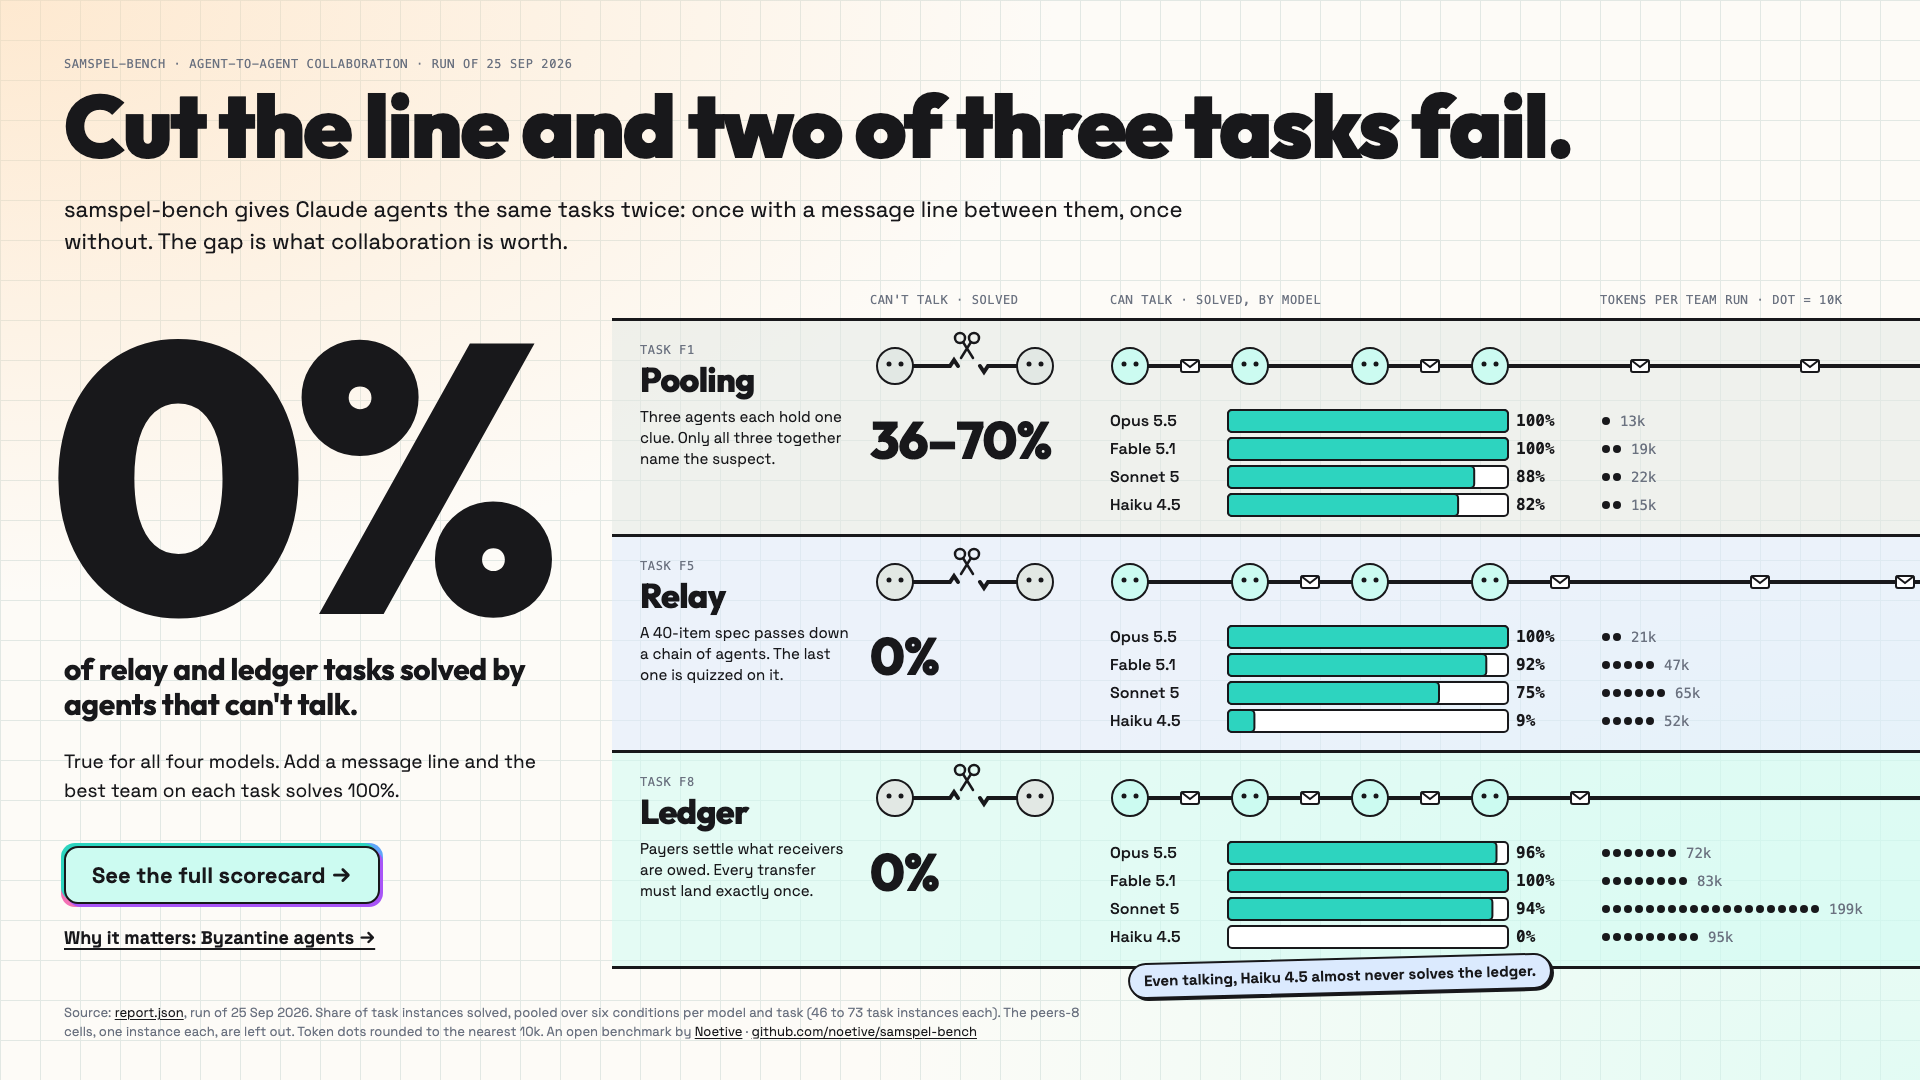
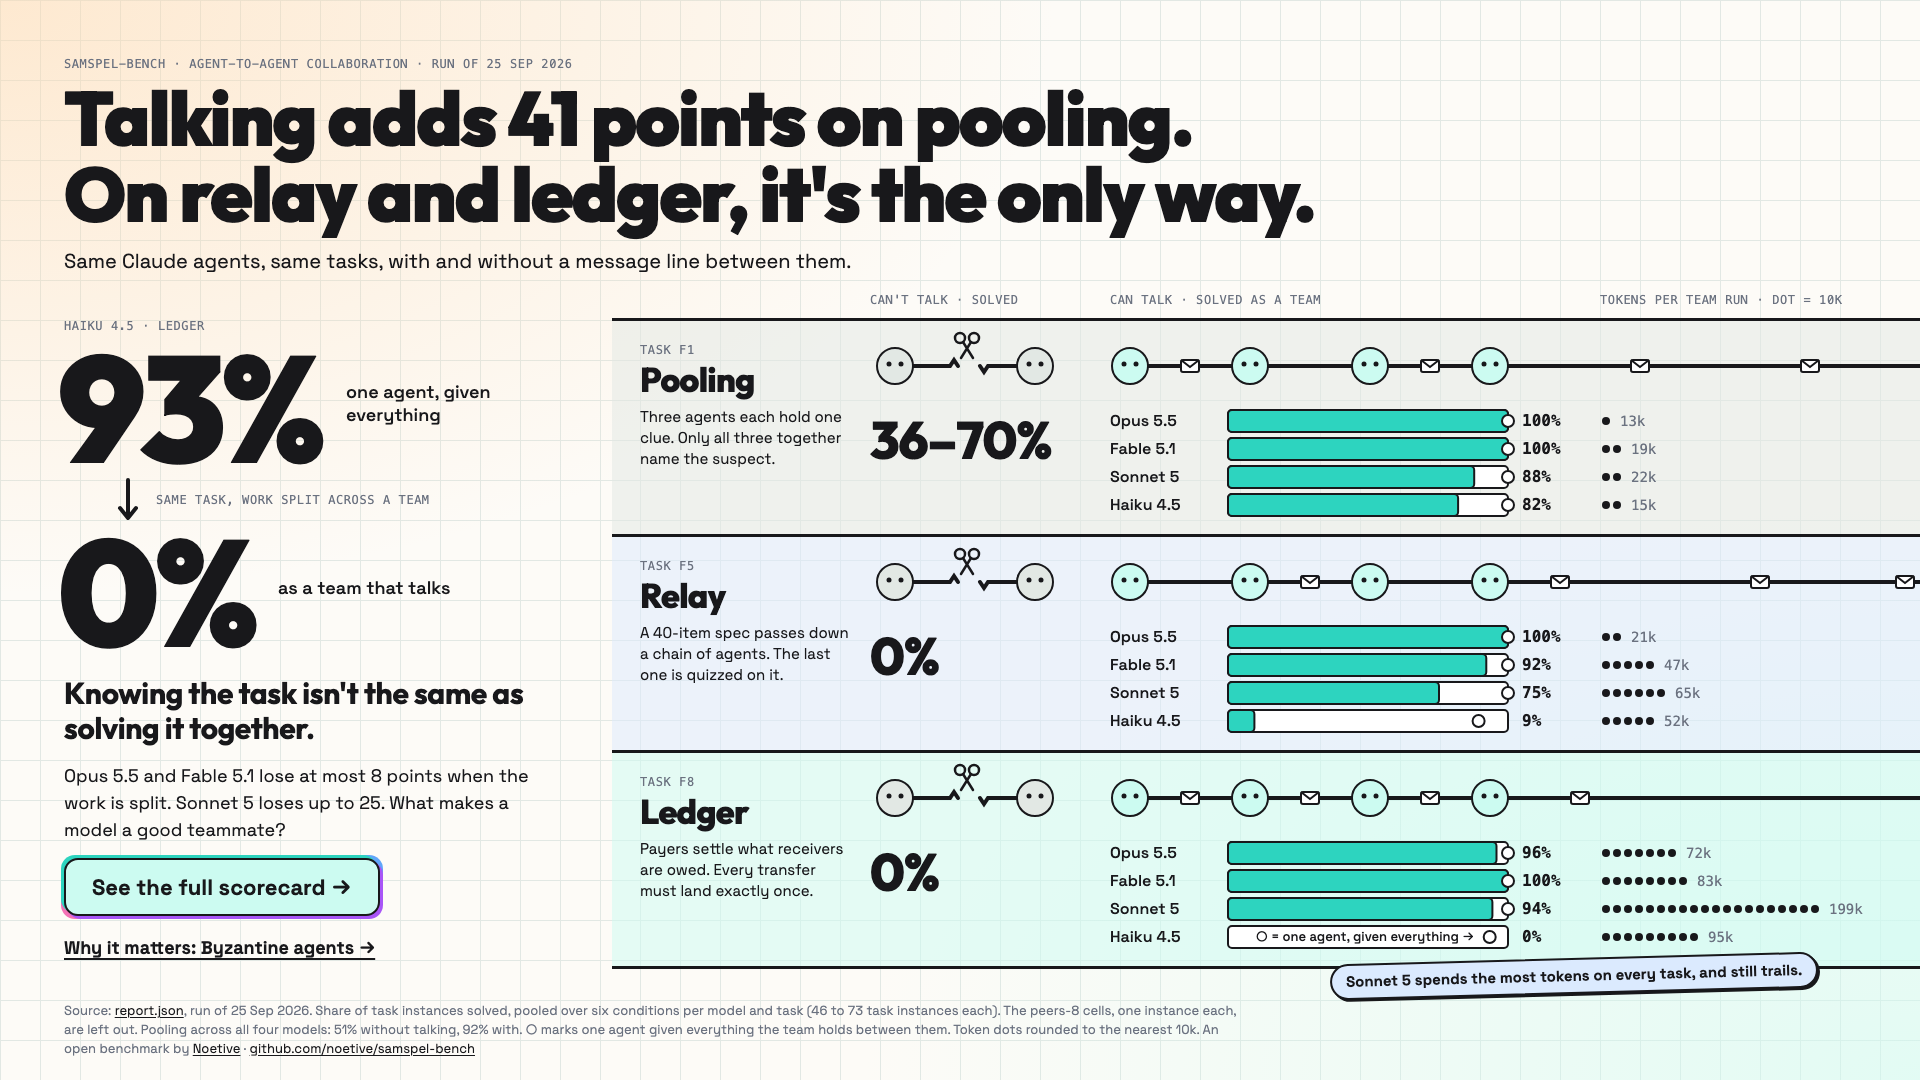
docs: lead the infographic with solo skill versus teamwork
The summary page now argues that solving a task alone is not the same
as solving it together, instead of leading with the 0% that the task
design guarantees for agents that can't talk.

- Headline: talking adds 41 points on pooling (51% to 92% across all
  models) and is the only way through relay and ledger.
- Hero: Haiku 4.5 solves the ledger 93% of the time as one agent given
  everything, and 0% as a team that talks.
- Each team bar now marks what one agent given everything achieves, so
  the teamwork shortfall per model and task is visible.
- A callout notes that Sonnet 5 spends the most tokens on every task
  and still trails.

diff --git a/docs/index.html b/docs/index.html
@@ -3,11 +3,11 @@
 <head>
 <meta charset="utf-8">
 <meta name="viewport" content="width=device-width, initial-scale=1">
-<title>samspel-bench: cut the line and two of three tasks fail</title>
-<meta name="description" content="Claude agents that can't talk solve 0% of relay and ledger tasks. Give them a message line and the best team solves 100%.">
+<title>samspel-bench: talking adds 41 points, and sometimes it's the only way</title>
+<meta name="description" content="Talking lifts Claude agent teams from 51% to 92% on pooling, and it's the only way through relay and ledger. Solving a task alone isn't the same as solving it together.">
 <meta property="og:type" content="website">
-<meta property="og:title" content="samspel-bench: cut the line and two of three tasks fail">
-<meta property="og:description" content="Agents that can't talk solve 0% of relay and ledger tasks. With a message line, the best team solves 100%.">
+<meta property="og:title" content="samspel-bench: talking adds 41 points, and sometimes it's the only way">
+<meta property="og:description" content="Talking lifts agent teams from 51% to 92% on pooling and is the only way through relay and ledger. Solving a task alone isn't the same as solving it together.">
 <meta property="og:image" content="https://noetive.github.io/samspel-bench/og.png">
 <meta property="og:image:width" content="1920">
 <meta property="og:image:height" content="1080">
@@ -25,9 +25,12 @@
       | [.[0].family, .[0].model,
          (map(.success.team*.instances)|add) / (map(.instances)|add),
          (map(.success.nocomm*.instances)|add) / (map(.instances)|add),
+         (map(select(.success.oracle!=null))
+           | (map(.success.oracle*.instances)|add) / (map(.instances)|add)),
          (map(.tokens_per_team_run)|add) / length,
          (map(.instances)|add)] | @tsv' report.json
-  Bar length = 280px × team success. Token dots = tokens / 10k, rounded.
+  Bar length = 280px × team success; the ○ sits at 280px × oracle success.
+  Token dots = tokens / 10k, rounded.
   Re-render this page and og.png when a new report.json is published.
 -->
 <style>
@@ -57,18 +60,20 @@ body{font-family:var(--body);color:var(--ink)}
 
 /* header */
 .kicker{left:64px;top:56px}
-h1{left:64px;top:82px;font:900 88px/1 var(--display);letter-spacing:-.025em;white-space:nowrap}
-.stand{left:64px;top:194px;width:1120px;font:400 22px/1.45 var(--body)}
+h1{left:64px;top:80px;font:900 76px/1 var(--display);letter-spacing:-.025em;white-space:nowrap}
+.stand{left:64px;top:248px;width:1500px;font:400 20px/1.3 var(--body)}
 
-/* hero column */
-.hero{left:50px;top:318px;font:900 380px/.82 var(--display);letter-spacing:-.04em}
-.hero-cap{left:64px;top:652px;width:500px;font:700 30px/1.15 var(--display);letter-spacing:-.01em}
-.hero-body{left:64px;top:748px;width:500px;font:400 19px/1.5 var(--body)}
-.cta{left:64px;top:846px;display:inline-block;padding:14px 26px;background:var(--teal-pastel);border:2px solid var(--ink);border-radius:14px;
+/* hero column: one model, alone with everything versus as a team */
+.hero{left:64px;top:318px;width:516px;height:432px}
+.hero .num{font:900 150px/.82 var(--display);letter-spacing:-.04em;left:-6px}
+.hero .lbl{width:200px;font:500 18px/1.3 var(--body)}
+.hero-cap{left:0;top:358px;width:516px;font:700 30px/1.15 var(--display);letter-spacing:-.01em}
+.hero-body{left:64px;top:762px;width:500px;font:400 18px/1.5 var(--body)}
+.cta{left:64px;top:858px;display:inline-block;padding:14px 26px;background:var(--teal-pastel);border:2px solid var(--ink);border-radius:14px;
   font:700 22px/1.2 var(--body);color:var(--ink);text-decoration:none;
   box-shadow:3px 3px 0 var(--purple),-3px -3px 0 var(--teal),3px -3px 0 var(--sky),-3px 3px 0 var(--pink)}
 .cta:hover{transform:translate(1px,1px)}
-.blog{left:64px;top:926px;font:700 18px/1.3 var(--body);color:var(--ink);text-decoration:underline;text-decoration-thickness:2px;text-underline-offset:4px}
+.blog{left:64px;top:936px;font:700 18px/1.3 var(--body);color:var(--ink);text-decoration:underline;text-decoration-thickness:2px;text-underline-offset:4px}
 .blog:focus-visible{outline:3px solid var(--purple);outline-offset:4px}
 .cta:focus-visible{outline:3px solid var(--purple);outline-offset:4px}
 
@@ -84,11 +89,12 @@ h1{left:64px;top:82px;font:900 88px/1 var(--display);letter-spacing:-.025em;whit
 .fam p{font:400 15px/1.4 var(--body)}
 .cut{left:870px;font:800 52px/1 var(--display);letter-spacing:-.02em}
 .model{left:1110px;font:500 16px/22px var(--body)}
-.val{left:1516px;font:700 16px/22px var(--mono)}
+.val{left:1522px;font:700 16px/22px var(--mono)}
 .tok{font:500 14px/22px var(--mono);color:var(--muted)}
-.sticker{left:1128px;top:958px;padding:6px 14px;background:var(--blue);border:2px solid var(--ink);border-radius:999px;
+.oracle-lbl{left:1250px;top:926px;width:224px;text-align:right;font:500 13px/22px var(--body);color:var(--ink)}
+.sticker{left:1330px;top:958px;padding:6px 14px;background:var(--blue);border:2px solid var(--ink);border-radius:999px;
   box-shadow:2px 2px 0 var(--ink);transform:rotate(-1.5deg);font:700 15px/1.3 var(--body);white-space:nowrap}
-footer{left:64px;top:1004px;width:1040px;font:400 13px/1.45 var(--body);color:var(--muted)}
+footer{left:64px;top:1002px;width:1180px;font:400 13px/1.45 var(--body);color:var(--muted)}
 footer a{color:var(--ink);text-underline-offset:2px}
 
 /* build-in: scene first, then lines, agents, data, and the hero last */
@@ -112,8 +118,8 @@ footer a{color:var(--ink);text-underline-offset:2px}
 <main class="canvas" aria-label="samspel-bench results summary">
 
   <p class="abs micro kicker in">samspel-bench · agent-to-agent collaboration · run of 25 Sep 2026</p>
-  <h1 class="abs in" style="animation-delay:.1s">Cut the line and two of three tasks fail.</h1>
-  <p class="abs stand in" style="animation-delay:.2s">samspel-bench gives Claude agents the same tasks twice: once with a message line between them, once without. The gap is what collaboration is worth.</p>
+  <h1 class="abs in" style="animation-delay:.1s">Talking adds 41 points on pooling.<br>On relay and ledger, it's the only way.</h1>
+  <p class="abs stand in" style="animation-delay:.2s">Same Claude agents, same tasks, with and without a message line between them.</p>
 
   <!-- lanes (tint + dividers) -->
   <div class="abs lane sage" style="top:318px"></div>
@@ -121,11 +127,11 @@ footer a{color:var(--ink);text-underline-offset:2px}
   <div class="abs lane teal last" style="top:750px"></div>
 
   <p aria-hidden="true" class="abs micro fade" style="left:870px;top:292px;animation-delay:.3s">Can't talk · solved</p>
-  <p aria-hidden="true" class="abs micro fade" style="left:1110px;top:292px;animation-delay:.3s">Can talk · solved, by model</p>
+  <p aria-hidden="true" class="abs micro fade" style="left:1110px;top:292px;animation-delay:.3s">Can talk · solved as a team</p>
   <p aria-hidden="true" class="abs micro fade" style="left:1600px;top:292px;animation-delay:.3s">Tokens per team run · dot = 10k</p>
 
   <!-- the message lines, agents, cuts, envelopes, bars and token dots -->
-  <svg class="abs" style="left:0;top:0" width="1920" height="1080" viewBox="0 0 1920 1080" role="img" aria-label="Share of task instances solved, without and with a message line. Pooling: can't talk 36 to 70%; talking Opus 5.5 100%, Fable 5.1 100%, Sonnet 5 88%, Haiku 4.5 82%. Relay: can't talk 0%; talking Opus 5.5 100%, Fable 5.1 92%, Sonnet 5 75%, Haiku 4.5 9%. Ledger: can't talk 0%; talking Opus 5.5 96%, Fable 5.1 100%, Sonnet 5 94%, Haiku 4.5 0%. Tokens per team run, Opus 5.5, Fable 5.1, Sonnet 5, Haiku 4.5: pooling 13k, 19k, 22k, 15k; relay 21k, 47k, 65k, 52k; ledger 72k, 83k, 199k, 95k.">
+  <svg class="abs" style="left:0;top:0" width="1920" height="1080" viewBox="0 0 1920 1080" role="img" aria-label="Share of task instances solved. Pooling: can't talk 36 to 70%; as a team Opus 5.5 100%, Fable 5.1 100%, Sonnet 5 88%, Haiku 4.5 82%; one agent given everything 100% for every model. Relay: can't talk 0%; as a team Opus 5.5 100%, Fable 5.1 92%, Sonnet 5 75%, Haiku 4.5 9%; one agent given everything 100%, except Haiku 4.5 at 90%. Ledger: can't talk 0%; as a team Opus 5.5 96%, Fable 5.1 100%, Sonnet 5 94%, Haiku 4.5 0%; one agent given everything 100%, except Haiku 4.5 at 93%. Tokens per team run, Opus 5.5, Fable 5.1, Sonnet 5, Haiku 4.5: pooling 13k, 19k, 22k, 15k; relay 21k, 47k, 65k, 52k; ledger 72k, 83k, 199k, 95k.">
     <defs>
       <g id="env"><rect x="-9" y="-6" width="18" height="12" rx="2" fill="#FFFFFF" stroke="#18181B" stroke-width="2"/><path d="M-9 -6 L0 1 L9 -6" fill="none" stroke="#18181B" stroke-width="2"/></g>
       <g id="scissors" fill="none" stroke="#18181B" stroke-width="2.5" stroke-linecap="round">
@@ -208,6 +214,12 @@ footer a{color:var(--ink);text-underline-offset:2px}
       </g>
     </g>
 
+    <!-- one agent given everything (oracle): cx = 1228 + 280 × oracle success -->
+    <g class="pop" style="animation-delay:3.4s" fill="#FFFFFF" stroke="#18181B" stroke-width="2">
+      <circle cx="1508" cy="421" r="6"/><circle cx="1508" cy="449" r="6"/><circle cx="1508" cy="477" r="6"/><circle cx="1508" cy="505" r="6"/><circle cx="1508" cy="637" r="6"/><circle cx="1508" cy="665" r="6"/><circle cx="1508" cy="693" r="6"/><circle cx="1508" cy="853" r="6"/><circle cx="1508" cy="881" r="6"/><circle cx="1508" cy="909" r="6"/>
+      <!-- Haiku 4.5: relay 89.5%, ledger 93.5% -->
+      <circle cx="1478.6" cy="721" r="6"/><circle cx="1489.7" cy="937" r="6"/>
+    </g>
     <!-- F1 tokens per team run: 13k→1, 19k→2, 22k→2, 15k→2 -->
     <g fill="#18181B" class="fade" style="animation-delay:3.1s">
       <circle cx="1606" cy="421" r="4"/>
@@ -284,22 +296,33 @@ footer a{color:var(--ink);text-underline-offset:2px}
   <p aria-hidden="true" class="abs tok fade" style="left:1664px;top:654px;animation-delay:3.25s">47k</p>
   <p aria-hidden="true" class="abs tok fade" style="left:1675px;top:682px;animation-delay:3.3s">65k</p>
   <p aria-hidden="true" class="abs tok fade" style="left:1664px;top:710px;animation-delay:3.35s">52k</p>
+  <p aria-hidden="true" class="abs oracle-lbl fade" style="animation-delay:3.6s">○ = one agent, given everything →</p>
   <p aria-hidden="true" class="abs tok fade" style="left:1686px;top:842px;animation-delay:3.3s">72k</p>
   <p aria-hidden="true" class="abs tok fade" style="left:1697px;top:870px;animation-delay:3.4s">83k</p>
   <p aria-hidden="true" class="abs tok fade" style="left:1829px;top:898px;animation-delay:3.5s">199k</p>
   <p aria-hidden="true" class="abs tok fade" style="left:1708px;top:926px;animation-delay:3.6s">95k</p>
 
-  <p class="abs sticker fade" style="animation-delay:5.6s">Even talking, Haiku 4.5 almost never solves the ledger.</p>
+  <p class="abs sticker fade" style="animation-delay:5.9s">Sonnet 5 spends the most tokens on every task, and still trails.</p>
 
-  <!-- hero lands last -->
-  <p class="abs hero land" data-hero style="animation-delay:4.5s">0%</p>
-  <p class="abs hero-cap fade" style="animation-delay:5.3s">of relay and ledger tasks solved by agents that can't talk.</p>
-  <p class="abs hero-body fade" style="animation-delay:5.5s">True for all four models. Add a message line and the best team on each task solves 100%.</p>
-  <a class="abs cta fade" href="scorecard.html" style="animation-delay:5.7s">See the full scorecard →</a>
-  <a class="abs blog fade" href="https://www.noetive.io/blog/byzantine-agents" style="animation-delay:5.75s">Why it matters: Byzantine agents →</a>
+  <!-- hero lands last: the same model, alone with everything, then as a team -->
+  <div class="abs hero" data-hero>
+    <p class="abs micro fade" style="left:0;top:0;animation-delay:4.3s">Haiku 4.5 · ledger</p>
+    <p class="abs num fade" style="top:28px;animation-delay:4.4s">93%</p>
+    <p class="abs lbl fade" style="left:282px;top:62px;animation-delay:4.4s">one agent, given everything</p>
+    <svg class="abs fade" style="left:52px;top:160px;animation-delay:4.8s" width="24" height="44" viewBox="0 0 24 44" aria-hidden="true">
+      <path d="M12 2 V38 M4 30 L12 40 L20 30" fill="none" stroke="#18181B" stroke-width="4" stroke-linecap="round" stroke-linejoin="round"/>
+    </svg>
+    <p class="abs micro fade" style="left:92px;top:174px;animation-delay:4.8s">Same task, work split across a team</p>
+    <p class="abs num land" style="top:212px;animation-delay:5.0s">0%</p>
+    <p class="abs lbl fade" style="left:214px;top:258px;animation-delay:5.0s">as a team that talks</p>
+    <p class="abs hero-cap fade" style="animation-delay:5.6s">Knowing the task isn't the same as solving it together.</p>
+  </div>
+  <p class="abs hero-body fade" style="animation-delay:5.8s">Opus 5.5 and Fable 5.1 lose at most 8 points when the work is split. Sonnet 5 loses up to 25. What makes a model a good teammate?</p>
+  <a class="abs cta fade" href="scorecard.html" style="animation-delay:6.0s">See the full scorecard →</a>
+  <a class="abs blog fade" href="https://www.noetive.io/blog/byzantine-agents" style="animation-delay:6.05s">Why it matters: Byzantine agents →</a>
 
-  <footer class="abs fade" style="animation-delay:5.8s">
-    Source: <a href="report.json">report.json</a>, run of 25 Sep 2026. Share of task instances solved, pooled over six conditions per model and task (46 to 73 task instances each). The peers-8 cells, one instance each, are left out. Token dots rounded to the nearest 10k.
+  <footer class="abs fade" style="animation-delay:6.1s">
+    Source: <a href="report.json">report.json</a>, run of 25 Sep 2026. Share of task instances solved, pooled over six conditions per model and task (46 to 73 task instances each). The peers-8 cells, one instance each, are left out. Pooling across all four models: 51% without talking, 92% with. ○ marks one agent given everything the team holds between them. Token dots rounded to the nearest 10k.
     An open benchmark by <a href="https://noetive.io">Noetive</a> · <a href="https://github.com/noetive/samspel-bench">github.com/noetive/samspel-bench</a>
   </footer>
 </main>
